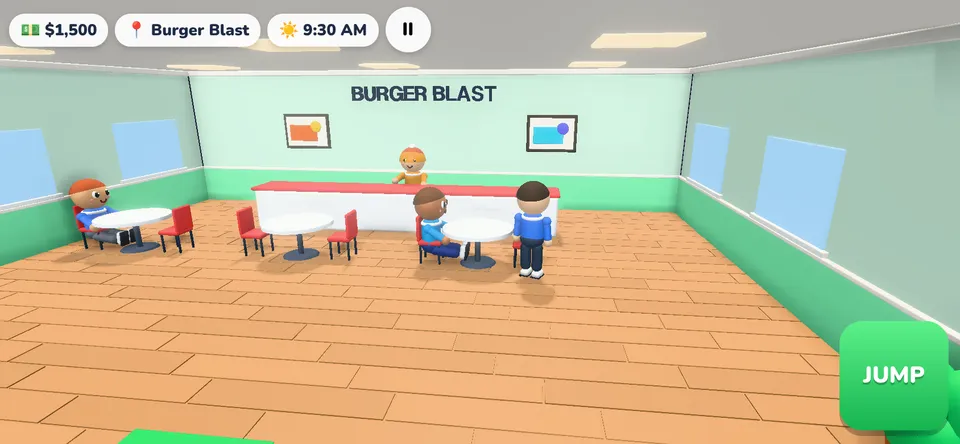
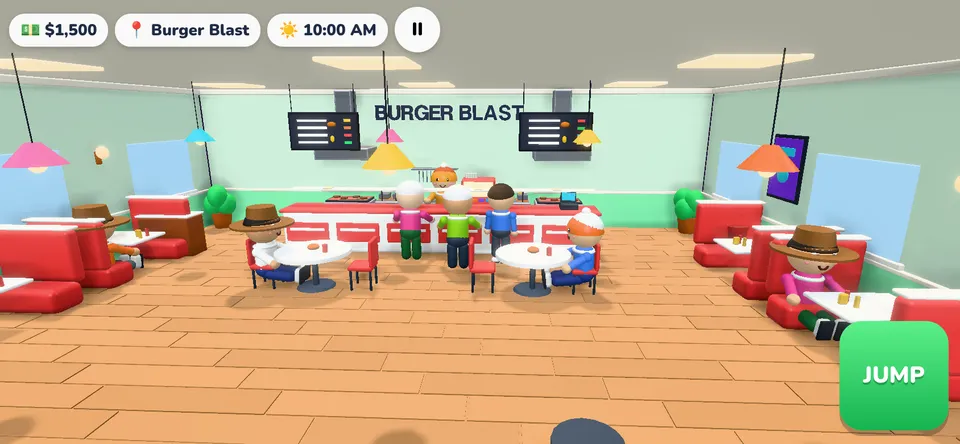
Rides Remastered release prep: cabinet -> grok-rides-remastered, original Grok Rides as Old Version (stays playable), polished interior pic

diff --git a/index.html b/index.html
@@ -146,7 +146,7 @@
 <div id="fade"></div>
 
 <script src="three.min.js?v=20261011b37"></script>
-<script src="js/catalog.js?v=20261011rr35"></script>
+<script src="js/catalog.js?v=20261011rr35b"></script>
 <script src="js/audio.js?v=20261011b37"></script>
 <script src="js/minigames.js?v=20261011b37"></script>
 <script src="js/games-bonus.js?v=20261011b37"></script>
@@ -169,26 +169,26 @@
 <script src="js/game-drift.js?v=20261011b37"></script>
 <script src="js/game-meteor.js?v=20261011b37"></script>
 <script src="js/game-swing.js?v=20261011b37"></script>
-<script src="js/game-wash.js?v=20261011rr35"></script>
+<script src="js/game-wash.js?v=20261011rr35b"></script>
 <script src="js/game-dig.js?v=20261011b37"></script>
 <script src="js/game-crumbs.js?v=20261011b37"></script>
 <script src="js/game-ghost.js?v=20261011b37"></script>
 <script src="js/game-tame.js?v=20261011b37"></script>
 <script src="js/game-tm.js?v=20261011b37"></script>
-<script src="js/prize-art.js?v=20261011rr35"></script>
-<script src="js/prize-3d.js?v=20261011rr35"></script>
+<script src="js/prize-art.js?v=20261011rr35b"></script>
+<script src="js/prize-3d.js?v=20261011rr35b"></script>
 <script src="js/attic-prizes.js?v=20261011b37"></script>
 <script src="js/hall2-prizes.js?v=20261011b37"></script>
 <script src="js/retro-prizes.js?v=20261011b37"></script>
 <script src="js/claw-prizes.js?v=20261011b37"></script>
-<script src="js/progress.js?v=20261011rr35"></script>
+<script src="js/progress.js?v=20261011rr35b"></script>
 <script src="js/prize-view.js?v=20261011b37"></script>
 <script src="js/prize-ui.js?v=20261011b37"></script>
 <script src="js/suggest.js?v=20261011b37"></script>
 <script src="js/claw.js?v=20261011b37"></script>
-<script src="js/pics.js?v=20261011rr35"></script>
-<script src="js/hall-data.js?v=20261011rr35"></script>
-<script src="js/hall.js?v=20261011rr35"></script>
+<script src="js/pics.js?v=20261011rr35b"></script>
+<script src="js/hall-data.js?v=20261011rr35b"></script>
+<script src="js/hall.js?v=20261011rr35b"></script>
 <script src="js/hall-ui.js?v=20261011b37"></script>
 <script src="js/hall2.js?v=20261011b37"></script>
 <script src="js/hall2-ui.js?v=20261011b37"></script>
@@ -208,7 +208,7 @@
 <script src="js/retro.js?v=20261011b37"></script>
 <script src="js/retro-ui.js?v=20261011b37"></script>
 <script src="js/perf.js?v=20261011b37"></script>
-<script src="js/hub.js?v=20261011rr35"></script>
+<script src="js/hub.js?v=20261011rr35b"></script>
 <script src="js/lobby.js?v=20261011b37"></script>
 <script src="js/hub-mp.js?v=20261011b37"></script>
 <script src="js/fix.js?v=20261011b37"></script>

diff --git a/js/catalog.js b/js/catalog.js
@@ -30,7 +30,7 @@ GA.MAIN_GAMES = [
   { id: 'blocks', mp: true, name: 'Grok Blocks', desc: 'A blocky wildlife rescue! Explore 5 biomes, calm 18 kinds of animals with darts, chase runners in your truck and outsmart poachers. Co-op online!',
     url: 'https://lizethbran13-cmyk.github.io/grok-blocks/', color: '#4ade80', color2: '#fbbf24' },
   { id: 'rides', mp: true, name: 'Grok Rides', desc: 'REMASTERED on the Tempest engine! A huge free-roam world: Grok City, Pine Hollow, the Sunny Shores beach town, the desert, icy tundra and a winding mountain road. 31 rides: cars, buses, bikes, a monster truck, boats, a helicopter, seaplane, hovercraft, hot air balloon, the Ratita hover-car, plus an ice cream truck, fire truck and tow truck with real jobs. Street races, deliveries, police chases, gas stations, a car wash, rain and puddles, day and night, 3 homes and co-op for 3!',
-    url: 'https://lizethbran13-cmyk.github.io/grok-rides/', color: '#ff4fd8', color2: '#38bdf8' },
+    url: 'https://lizethbran13-cmyk.github.io/grok-rides-remastered/', color: '#ff4fd8', color2: '#38bdf8' },
   { id: 'poke', mp: true, name: 'Grok Poke', desc: 'A big 3D adventure: explore 7 regions, befriend 39 critters, real-time battles, 5 dungeons with bosses, towns you can walk into, and trade or explore with friends online!',
     url: 'https://lizethbran13-cmyk.github.io/grok-poke/', color: '#5dd66f', color2: '#ffd23f' },
   { id: 'heist', mp: true, name: 'Grok Heist Crew', desc: 'A cartoony co-op stealth heist! Pick Hacker, Lookout, Acrobat or Muscle, sneak past guards, hack doors and lasers and grab Baron Grumble\u2019s treasures from 5 heists. Up to 3 friends online!',

diff --git a/js/hall-data.js b/js/hall-data.js
@@ -1139,6 +1139,14 @@ GA.HALL_DATA = {
 "commit": "bfc0bc0",
 "url": "https://lizethbran13-cmyk.github.io/grok-rides/versions/v2/",
 "thumb": "assets/hall/rides/v-v2.webp"
+},
+{
+"label": "original",
+"ver": "2.1",
+"title": "The original Grok Rides (before Remastered)",
+"commit": "6ddec82",
+"url": "https://lizethbran13-cmyk.github.io/grok-rides/",
+"thumb": "assets/hall/rides/v-v2-1.webp"
 }
 ],
 "pics": [
@@ -1192,7 +1200,7 @@ GA.HALL_DATA = {
 },
 {
 "src": "assets/hall/rides/9.webp",
-"cap": "Inside Burger Blast",
+"cap": "Inside Burger Blast: kitchen, menu boards and booths",
 "w": 960,
 "h": 444
 }
